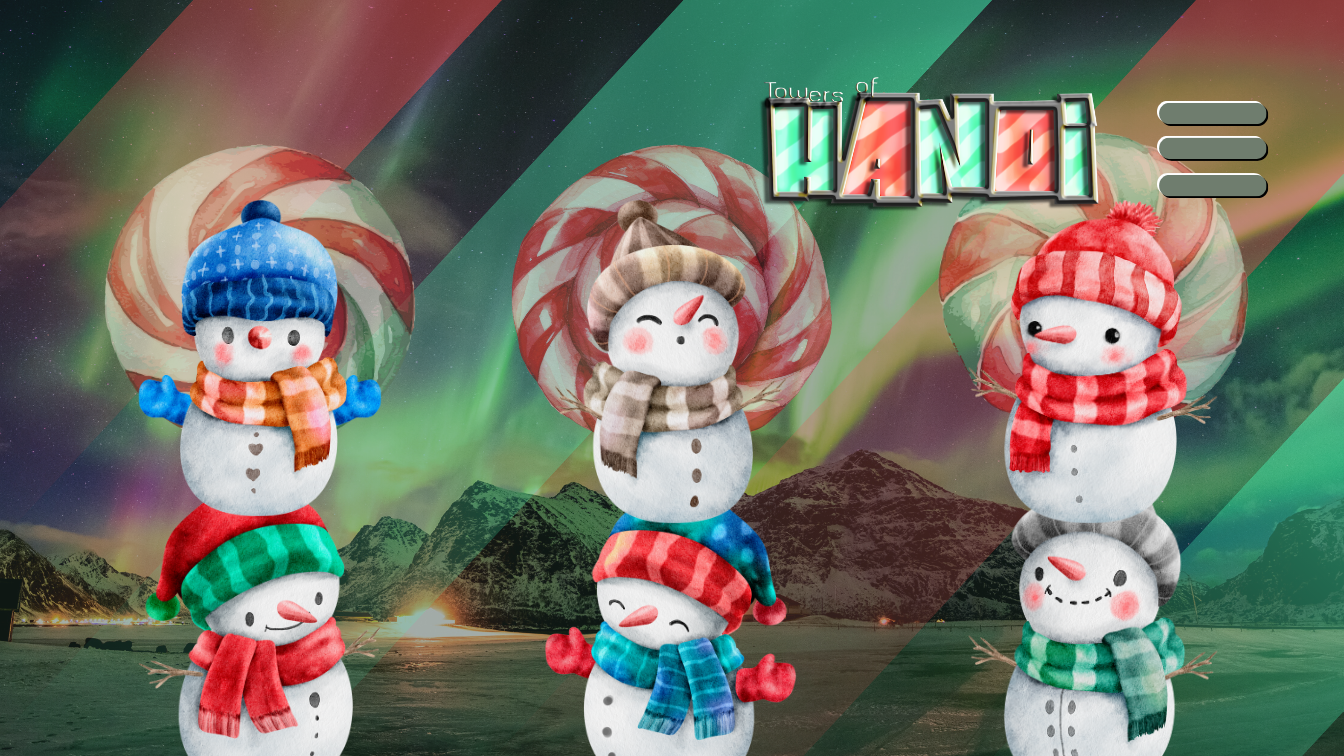
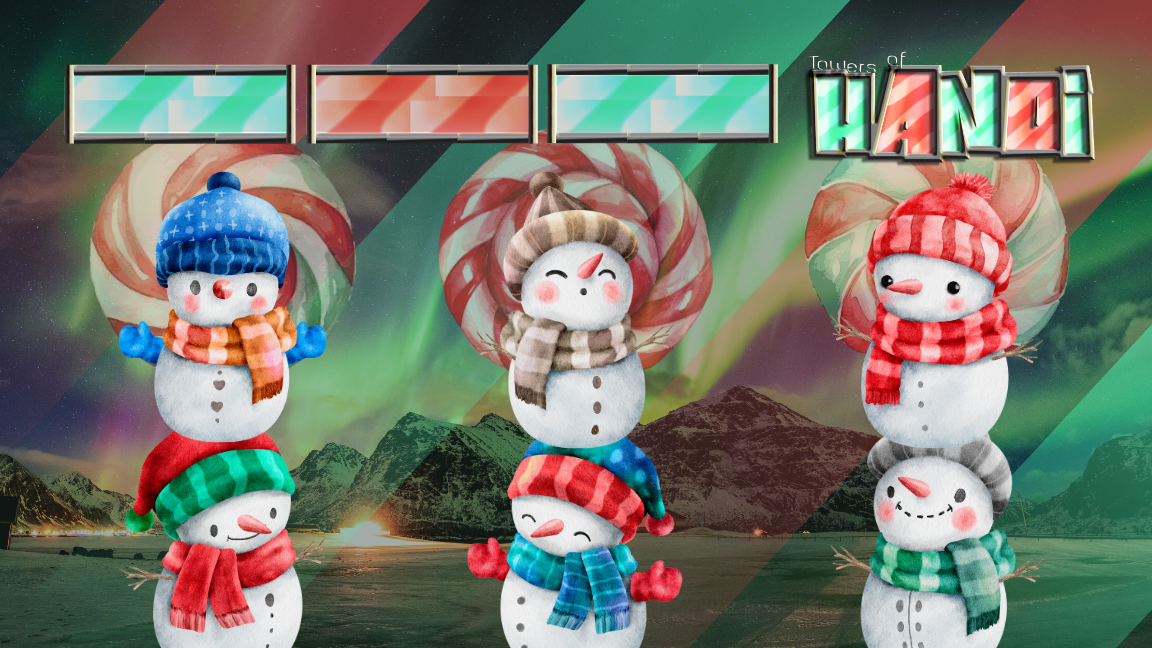
:)

Changed region(s): [[0.0312, 0.0926, 0.9688, 0.2778]]

diff --git a/src/Options.java b/src/Options.java
@@ -56,7 +56,6 @@ public class Options extends JFrame {
         Back.addActionListener(new ActionListener() {
             @Override
             public void actionPerformed(ActionEvent e) {
-                //uhihiiojpk
                 frame.setVisible(false);
                 StartPage cool = new StartPage();
                 cool.homePage();
@@ -70,7 +69,7 @@ public class Options extends JFrame {
         Level4x4.addActionListener(new ActionListener() {
             @Override
             public void actionPerformed(ActionEvent e) {
-                dispose();
+                frame.setVisible(false);
                 Level4x4 cool = new Level4x4();
             }
         });
@@ -80,7 +79,7 @@ public class Options extends JFrame {
         Level5x5.addActionListener(new ActionListener() {
             @Override
             public void actionPerformed(ActionEvent e) {
-                dispose();
+                frame.setVisible(false);
                 Level5x5 cool = new Level5x5();
             }
         });
@@ -90,7 +89,7 @@ public class Options extends JFrame {
         Level6x6.addActionListener(new ActionListener() {
             @Override
             public void actionPerformed(ActionEvent e) {
-                dispose();
+                frame.setVisible(false);
                 Level6x6 cool = new Level6x6();
             }
         });
@@ -102,7 +101,7 @@ public class Options extends JFrame {
 
         frame.setDefaultCloseOperation(WindowConstants.EXIT_ON_CLOSE);
         frame.add(pane);
-        frame.setSize(1152,648);
+        frame.setSize(1152,678);
         frame.setVisible(true);
     }
 }

diff --git a/src/StartPage.java b/src/StartPage.java
@@ -4,7 +4,10 @@ import java.awt.event.ActionListener;
 import java.awt.*;
 import java.io.File;
 import java.io.IOException;
+import java.io.InputStream;
 import java.net.URL;
+import java.util.logging.Level;
+import java.util.logging.Logger;
 
 public class StartPage {
     //INSTANCE VARIABLES
@@ -16,8 +19,18 @@ public class StartPage {
     private Font theNormalFont(int size) {
 
         GraphicsEnvironment graphics = GraphicsEnvironment.getLocalGraphicsEnvironment();
-        File fontFile = new File("C:\\Users\\Dinuri\\Pictures\\Saved Pictures\\Other\\Fonts\\CaviarDreams\\CaviarDreams.ttf\\");
+        ClassLoader classloader = Thread.currentThread().getContextClassLoader();
+
+        try(InputStream stream = classloader.getResourceAsStream("CaviarDreams.ttf")) {
+            Font font = Font.createFont(Font.TRUETYPE_FONT,stream);
+        } catch (FontFormatException | IOException x) {
+            //Logger.getLogger(FontLoader.class.getName()).log(Level.SEVERE,null,x);
+        }
+
+        URL url = classloader.getResource("CaviarDreams/CaviarDreams.ttf");
+        File fontFile = new File(String.valueOf(url));
         Font caviarDreams = null;
+
         try {
             caviarDreams = Font.createFont(Font.TRUETYPE_FONT,fontFile).deriveFont(Font.BOLD,size);
             graphics.registerFont(Font.createFont(Font.TRUETYPE_FONT, fontFile));

diff --git a/src/Level4x4.java b/src/Level4x4.java
@@ -111,12 +111,12 @@ public class Level4x4 extends JFrame {
         Back.setBounds(200, 0, 50,50);
         pane.add(Back);
 
-        background.setBounds(0,0,1344,756);
+        background.setBounds(0,0,1152,648);
         pane.add(background,JLayeredPane.DEFAULT_LAYER);
 
         frame.setDefaultCloseOperation(WindowConstants.EXIT_ON_CLOSE);
         frame.add(pane);
-        frame.setSize(1344,756);
+        frame.setSize(1152,678);
         frame.setVisible(true);
     }
 }

diff --git a/src/Level5x5.java b/src/Level5x5.java
@@ -142,12 +142,12 @@ public class Level5x5 extends JFrame{
         Back.setBounds(250, 0, 50,50);
         pane.add(Back);
 
-        background.setBounds(0,0,1344,756);
+        background.setBounds(0,0,1152,648);
         pane.add(background,JLayeredPane.DEFAULT_LAYER);
 
         frame.setDefaultCloseOperation(WindowConstants.EXIT_ON_CLOSE);
         frame.add(pane);
-        frame.setSize(1344,756);
+        frame.setSize(1152,678);
         frame.setVisible(true);
     }
 }

diff --git a/src/Level6x6.java b/src/Level6x6.java
@@ -169,12 +169,12 @@ public class Level6x6 extends JFrame{
         Back.setBounds(300, 0, 50,50);
         pane.add(Back);
 
-        background.setBounds(0,0,1344,756);
+        background.setBounds(0,0,1152,648);
         pane.add(background,JLayeredPane.DEFAULT_LAYER);
 
         frame.setDefaultCloseOperation(WindowConstants.EXIT_ON_CLOSE);
         frame.add(pane);
-        frame.setSize(1344,756);
+        frame.setSize(1152,678);
         frame.setVisible(true);
     }
 }
